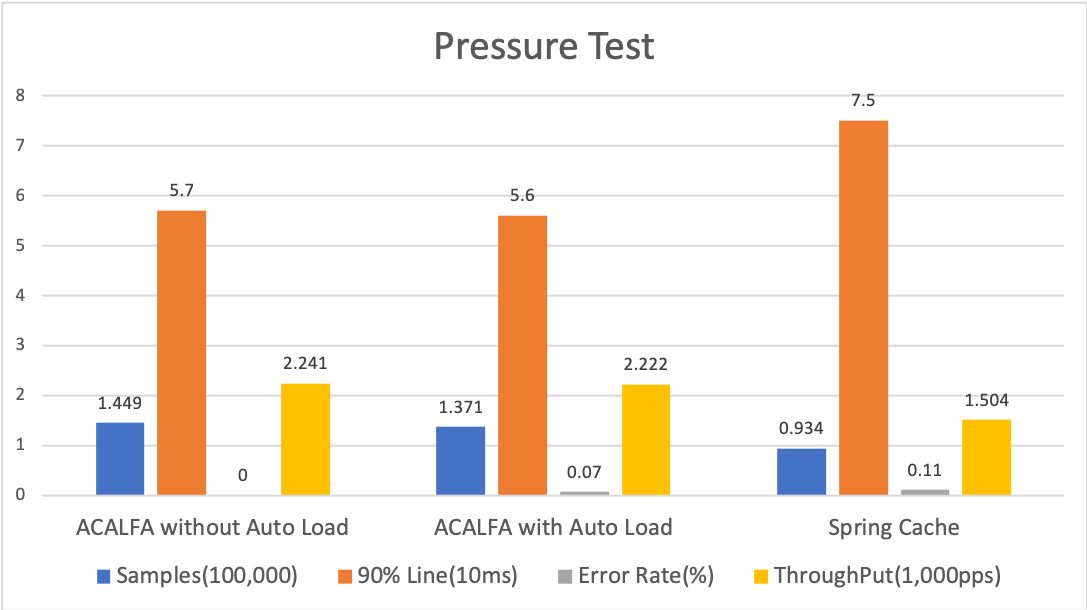
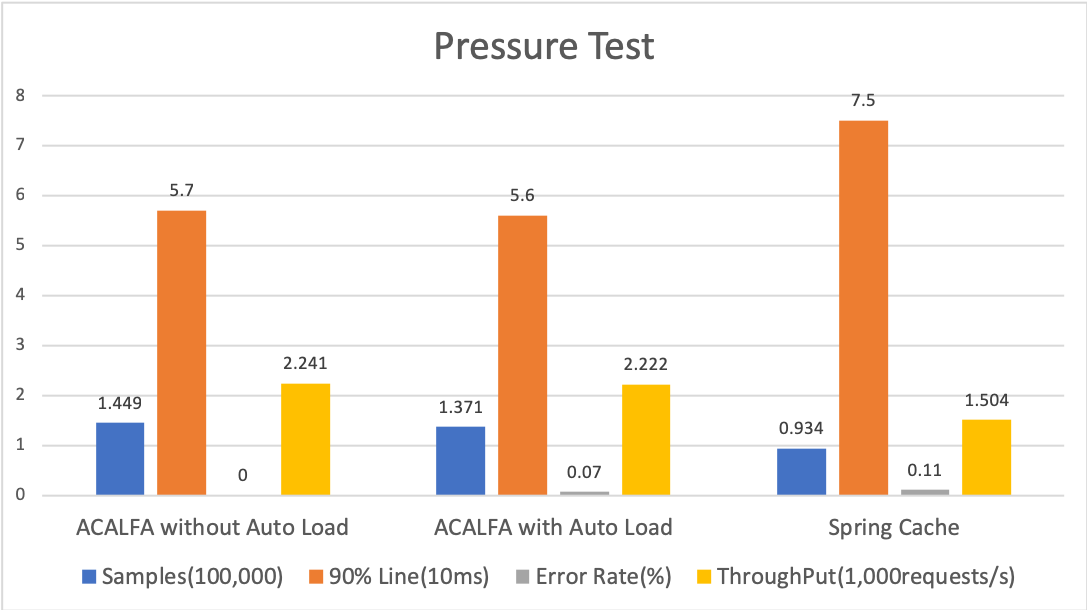
revised figure 9 added explanations of throughput in pressure test experiment

Changed region(s): [[0.0607, 0.9033, 0.9411, 0.9656]]

diff --git a/paper.tex b/paper.tex
@@ -384,7 +384,16 @@ Resource consumption experiment is set for validating the load wait performance.
      \label{pressuretest}
  \end{figure}
 
- The pressure test is getting access to a page repeatedly within one minute in order to test the stability of ACALFA in high concurrency. We used 100 threads to simulate 100 users for requesting the targeting page simultaneously. We can infer the system availability and response speed from the report. The query statement is same as resource consumption experiment. We can learn ACALFA response is 25\% faster than Spring Cache, processing speed is 48\% faster and stability has improved 36\% from above figure \ref{pressuretest}.
+ The pressure test is getting access to a page repeatedly within one minute in order to test the stability of ACALFA in high concurrency. We used 100 threads to simulate 100 users for requesting the targeting page simultaneously. It should be noted that we use JMeter, an open source pressure test tool, to do this experiment. The formula \ref{throughput} explains how to calculate throughput in JMeter.
+ 
+\begin{center}
+\begin{eqnarray}
+    \label{throughput}
+    throughput = \frac{number\ of\ request}{total\ time}
+\end{eqnarray}
+\end{center}
+ 
+ We can infer the system availability and response speed from the report. The query statement is same as resource consumption experiment. We can learn ACALFA response is 25\% faster than Spring Cache, processing speed is 48\% faster and stability has improved 36\% from above figure \ref{pressuretest}.
 
 \section{Conclusions}
 \label{Conclusions}
